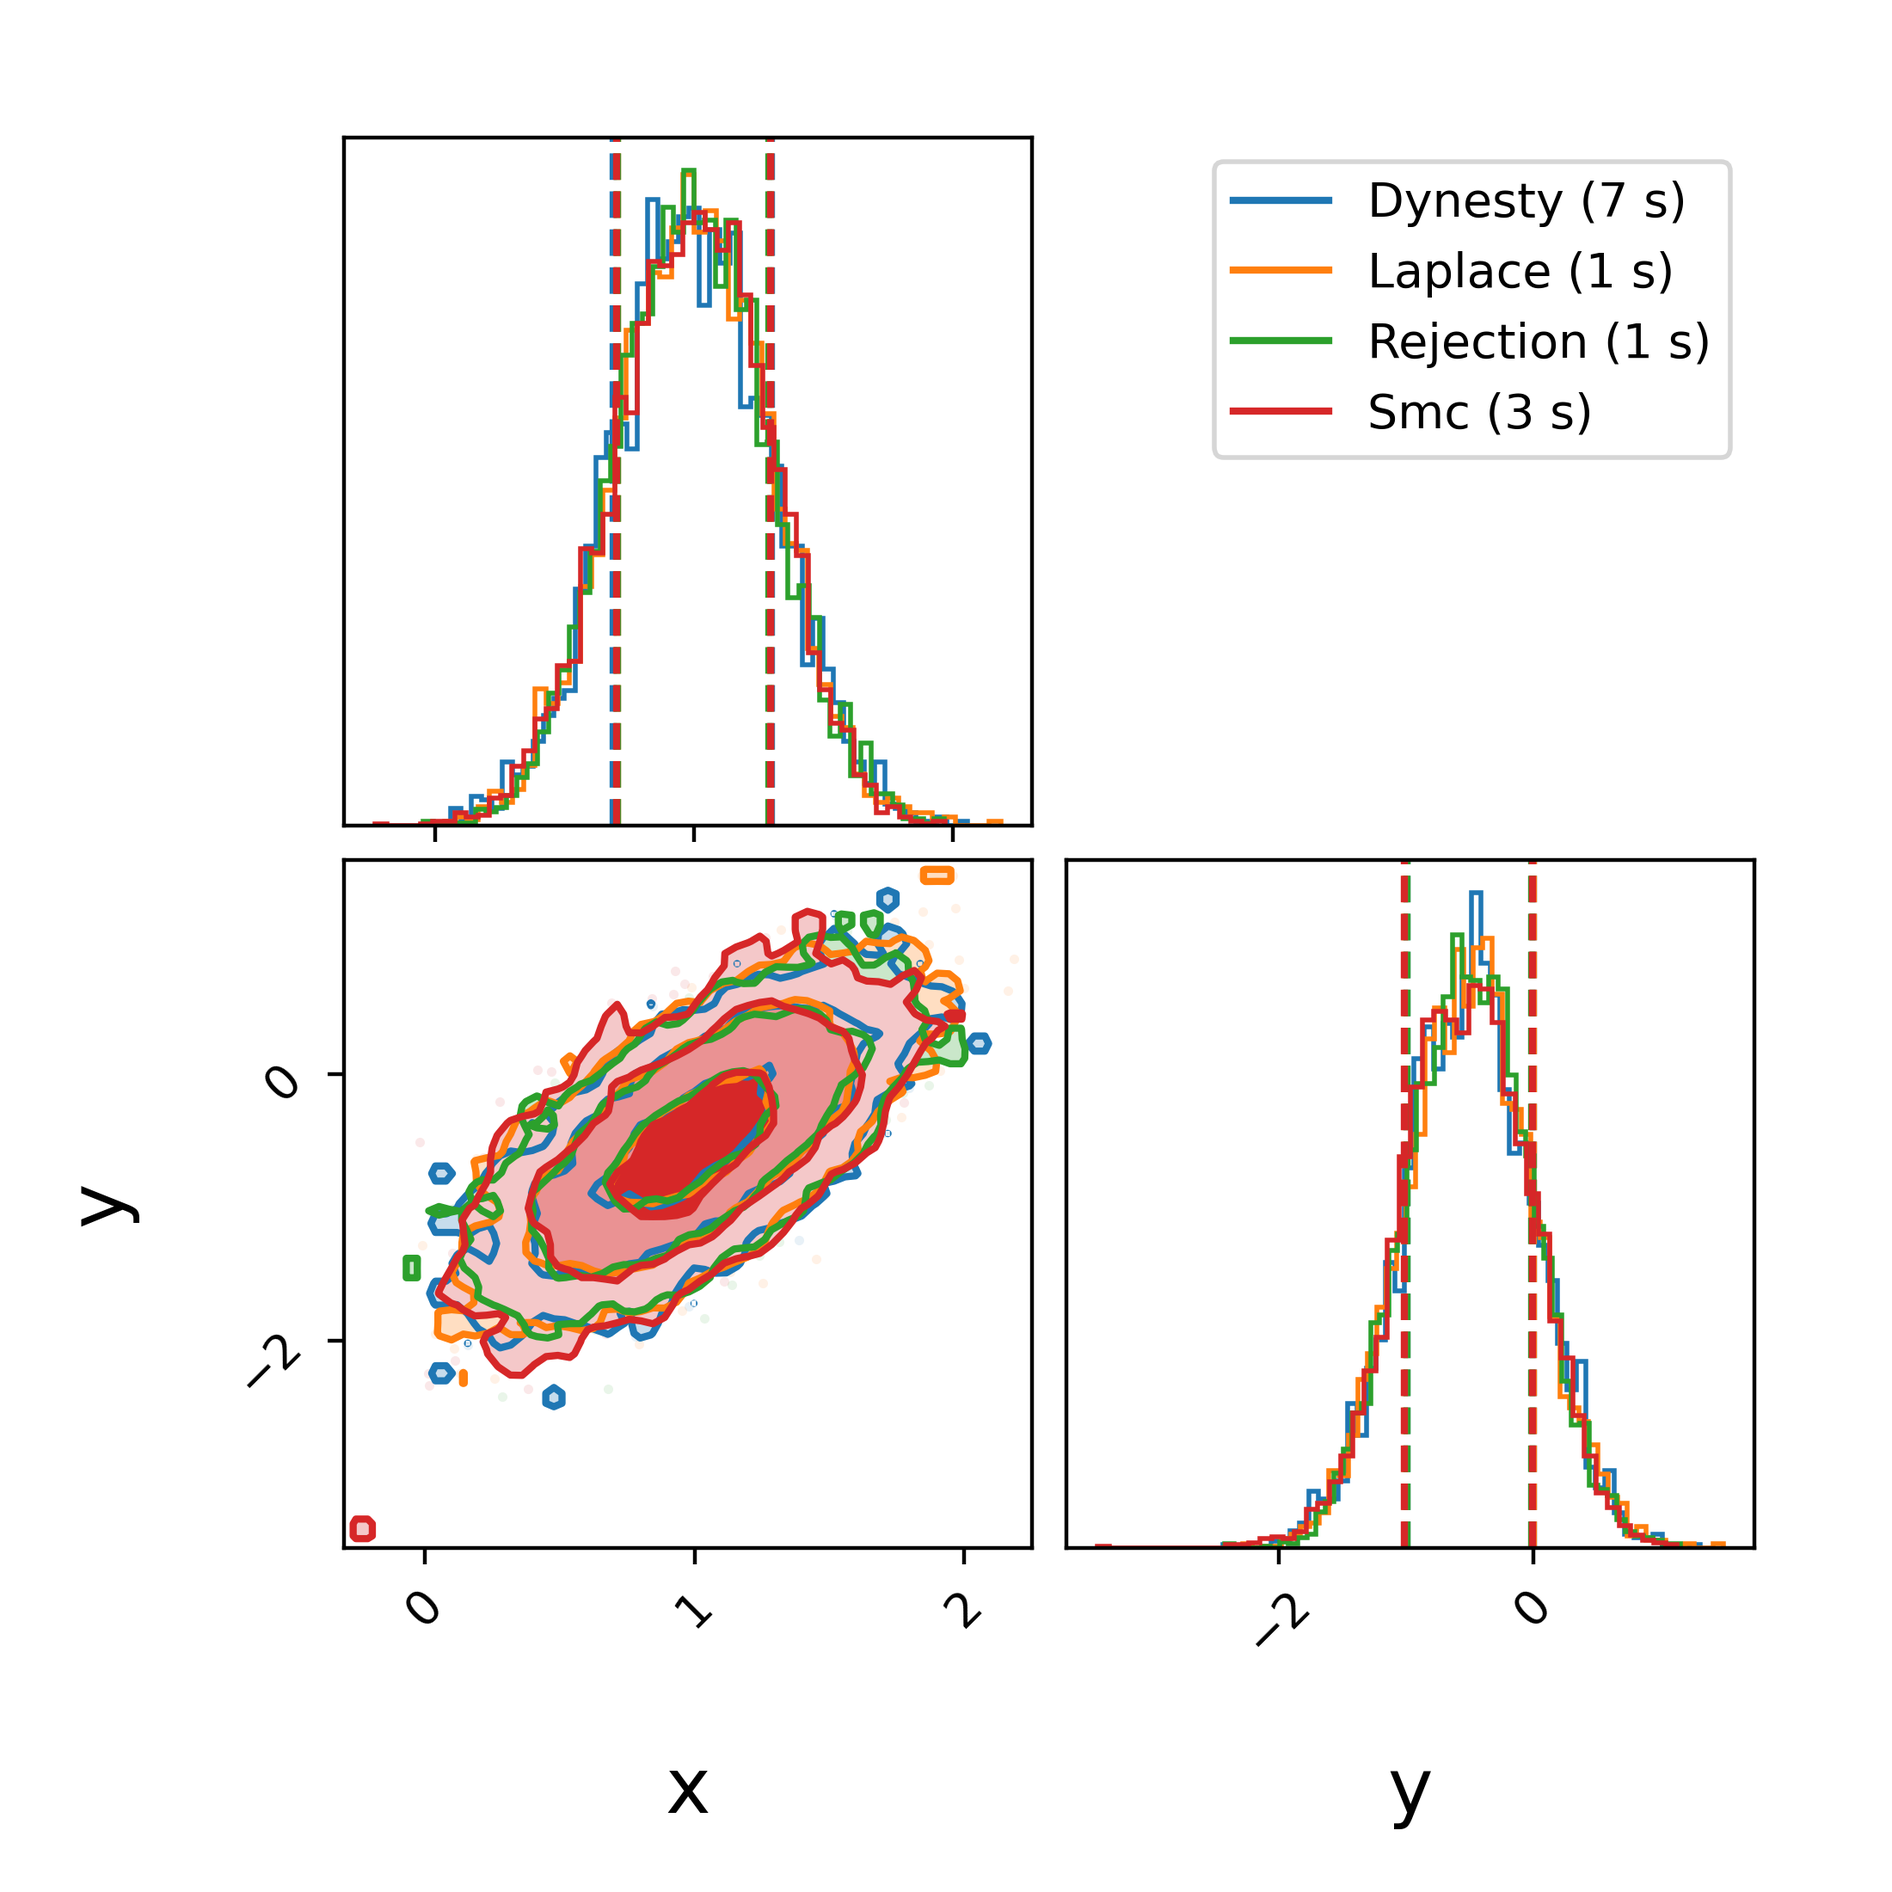
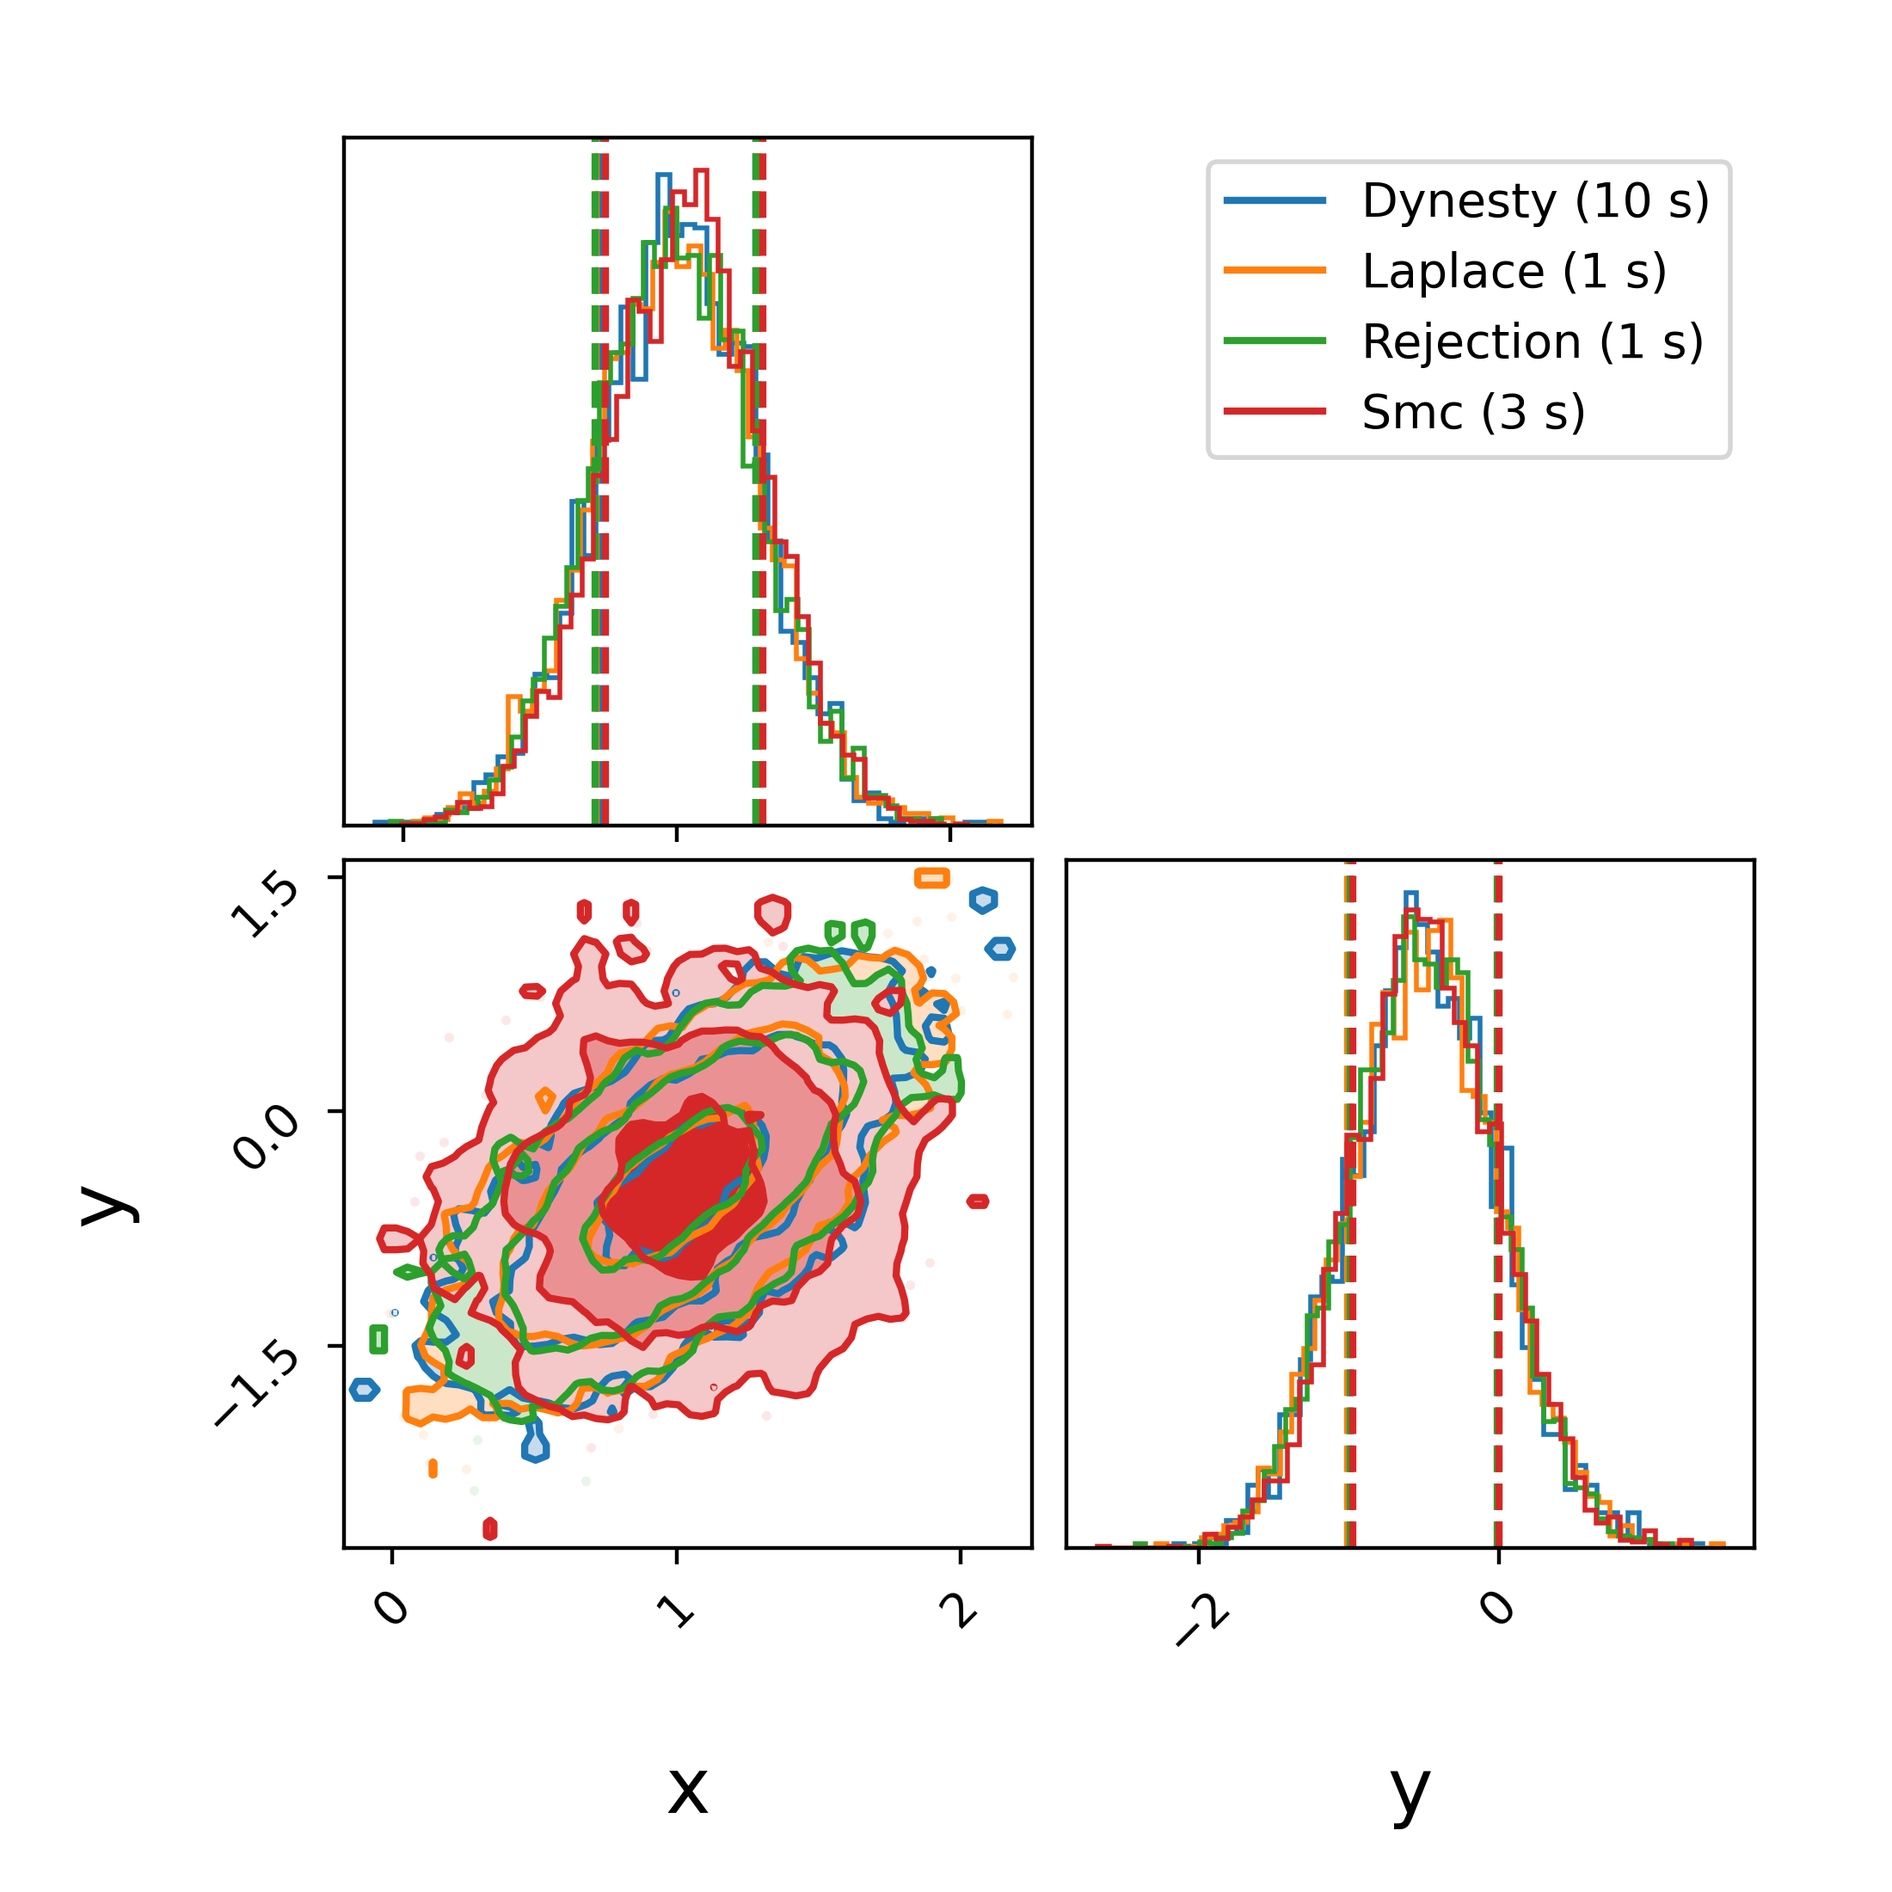
Clean up examples

diff --git a/examples/comparison.py b/examples/comparison.py
@@ -1,0 +1,97 @@
+"""Shared comparison utilities for Laplace example scripts."""
+
+import glob
+import os
+
+import bilby
+import numpy as np
+
+
+def compare(outdir, base_label, filename=None):
+    """Load all result files, print comparison table, and create corner plot.
+
+    Parameters
+    ----------
+    outdir : str
+        Output directory containing result files.
+    base_label : str
+        Base label for result files (pattern: ``{base_label}_*_result.*``).
+    filename : str, optional
+        Path for output corner plot. If None, uses ``{base_label}_comparison.png``
+        in the examples directory.
+
+    Returns
+    -------
+    results : list
+        List of loaded bilby Result objects.
+    labels : list
+        List of formatted labels for each result.
+    """
+    logger = bilby.core.utils.logger
+
+    pattern = os.path.join(outdir, f"{base_label}_*_result.*")
+    result_files = sorted([f for f in glob.glob(pattern) if not f.endswith(".old")])
+    if not result_files:
+        logger.warning(f"No result files found matching {pattern}")
+        return [], []
+
+    results = []
+    labels = []
+    for f in result_files:
+        try:
+            r = bilby.core.result.read_in_result(filename=f)
+            results.append(r)
+            label = r.label.replace(f"{base_label}_", "").capitalize()
+            secs = r.sampling_time.total_seconds()
+            if secs >= 3600:
+                label += f" ({secs / 3600:.1f} hr)"
+            elif secs >= 60:
+                label += f" ({secs / 60:.1f} min)"
+            else:
+                label += f" ({secs:.0f} s)"
+            labels.append(label)
+            logger.info(f"Loaded {f} ({label})")
+        except Exception as exc:
+            logger.warning(f"Could not load {f}: {exc}")
+
+    # Comparison table
+    W = 75
+    print("\n" + "=" * W)
+    print("Comparison")
+    print("=" * W)
+    print(f"{'Method':<20} {'log Z':>10} {'± σ':>8} {'n_like':>8} {'effic.':>8} {'time':>10}")
+    print("-" * W)
+    for r, _lab in zip(results, labels):
+        log_z = getattr(r, "log_evidence", np.nan) or np.nan
+        log_z_err = getattr(r, "log_evidence_err", np.nan) or np.nan
+        secs = r.sampling_time.total_seconds()
+        run_stats = r.meta_data.get("run_statistics", {})
+        n_like = run_stats.get("nlikelihood", np.nan)
+        eff = run_stats.get("efficiency", np.nan)
+        name = r.label.replace(f"{base_label}_", "")
+        n_like_str = f"{int(n_like):>8}" if np.isfinite(n_like) else f"{'—':>8}"
+        eff_str = f"{eff:>7.1f}%" if np.isfinite(eff) else f"{'—':>8}"
+        print(f"{name:<20} {log_z:>10.2f} {log_z_err:>8.2f} {n_like_str} {eff_str} {secs:>9.1f}s")
+    print("=" * W + "\n")
+
+    if len(results) < 2:
+        logger.warning(f"Need at least 2 results for a comparison plot, found {len(results)}")
+        return results, labels
+
+    import matplotlib.pyplot as plt
+
+    if filename is None:
+        filename = os.path.join(os.path.dirname(os.path.abspath(__file__)), f"{base_label}_comparison.png")
+
+    fig = bilby.core.result.plot_multiple(
+        results,
+        labels=labels,
+        filename=filename,
+        titles=False,
+        save=False,
+    )
+    fig.savefig(filename, dpi=400)
+    plt.close(fig)
+    logger.info(f"Comparison corner plot saved to {filename}")
+
+    return results, labels

diff --git a/examples/rosenbrock_example.py b/examples/rosenbrock_example.py
@@ -19,11 +19,9 @@ Usage
 """
 
 import argparse
-import glob
-import os
 
 import bilby
-import numpy as np
+from comparison import compare
 
 logger = bilby.core.utils.logger
 bilby.core.utils.random.seed(1234)
@@ -136,73 +134,6 @@ def run_dynesty(_common):
     )
 
 
-def compare():
-    """Load all result files in outdir, make a comparison corner plot,
-    and print a comparison table."""
-    pattern = os.path.join(outdir, f"{base_label}_*_result.*")
-    result_files = sorted([f for f in glob.glob(pattern) if not f.endswith(".old")])
-    if not result_files:
-        logger.warning(f"No result files found matching {pattern}")
-        return
-
-    results = []
-    labels = []
-    for f in result_files:
-        try:
-            r = bilby.core.result.read_in_result(filename=f)
-            results.append(r)
-            label = r.label.replace(f"{base_label}_", "").capitalize()
-            secs = r.sampling_time.total_seconds()
-            if secs >= 3600:
-                label += f" ({secs / 3600:.1f} hr)"
-            elif secs >= 60:
-                label += f" ({secs / 60:.1f} min)"
-            else:
-                label += f" ({secs:.0f} s)"
-            labels.append(label)
-            logger.info(f"Loaded {f} ({label})")
-        except Exception as exc:
-            logger.warning(f"Could not load {f}: {exc}")
-
-    # Comparison table
-    W = 75
-    print("\n" + "=" * W)
-    print("Comparison")
-    print("=" * W)
-    print(f"{'Method':<20} {'log Z':>10} {'± σ':>8} {'n_like':>8} {'effic.':>8} {'time':>10}")
-    print("-" * W)
-    for r, _lab in zip(results, labels):
-        log_z = getattr(r, "log_evidence", np.nan) or np.nan
-        log_z_err = getattr(r, "log_evidence_err", np.nan) or np.nan
-        secs = r.sampling_time.total_seconds()
-        run_stats = r.meta_data.get("run_statistics", {})
-        n_like = run_stats.get("nlikelihood", np.nan)
-        eff = run_stats.get("efficiency", np.nan)
-        name = r.label.replace(f"{base_label}_", "")
-        n_like_str = f"{int(n_like):>8}" if np.isfinite(n_like) else f"{'—':>8}"
-        eff_str = f"{eff:>7.1f}%" if np.isfinite(eff) else f"{'—':>8}"
-        print(f"{name:<20} {log_z:>10.2f} {log_z_err:>8.2f} {n_like_str} {eff_str} {secs:>9.1f}s")
-    print("=" * W + "\n")
-
-    if len(results) < 2:
-        logger.warning(f"Need at least 2 results for a comparison plot, " f"found {len(results)}")
-        return
-
-    import matplotlib.pyplot as plt
-
-    filename = os.path.join(os.path.dirname(os.path.abspath(__file__)), f"{base_label}_comparison.png")
-    fig = bilby.core.result.plot_multiple(
-        results,
-        labels=labels,
-        filename=filename,
-        titles=False,
-        save=False,
-    )
-    fig.savefig(filename, dpi=400)
-    plt.close(fig)
-    logger.info(f"Comparison corner plot saved to {filename}")
-
-
 if __name__ == "__main__":
     parser = argparse.ArgumentParser(description="Laplace vs dynesty on a 2D Rosenbrock likelihood")
     parser.add_argument(
@@ -238,4 +169,4 @@ if __name__ == "__main__":
 
         # Compare only needs to read result files
         if args.compare:
-            compare()
+            _results, _labels = compare(outdir, base_label)

diff --git a/examples/gaussian_example.py b/examples/gaussian_example.py
@@ -9,11 +9,10 @@ Usage
 """
 
 import argparse
-import glob
-import os
 
 import bilby
 import numpy as np
+from comparison import compare
 
 logger = bilby.core.utils.logger
 bilby.core.utils.random.seed(1234)
@@ -111,73 +110,6 @@ def run_dynesty(_common):
     )
 
 
-def compare():
-    """Load all result files in outdir, make a comparison corner plot,
-    and print a comparison table."""
-    pattern = os.path.join(outdir, f"{base_label}_*_result.*")
-    result_files = sorted([f for f in glob.glob(pattern) if not f.endswith(".old")])
-    if not result_files:
-        logger.warning(f"No result files found matching {pattern}")
-        return
-
-    results = []
-    labels = []
-    for f in result_files:
-        try:
-            r = bilby.core.result.read_in_result(filename=f)
-            results.append(r)
-            label = r.label.replace(f"{base_label}_", "").capitalize()
-            secs = r.sampling_time.total_seconds()
-            if secs >= 3600:
-                label += f" ({secs / 3600:.1f} hr)"
-            elif secs >= 60:
-                label += f" ({secs / 60:.1f} min)"
-            else:
-                label += f" ({secs:.0f} s)"
-            labels.append(label)
-            logger.info(f"Loaded {f} ({label})")
-        except Exception as exc:
-            logger.warning(f"Could not load {f}: {exc}")
-
-    # Comparison table
-    W = 75
-    print("\n" + "=" * W)
-    print("Comparison")
-    print("=" * W)
-    print(f"{'Method':<20} {'log Z':>10} {'± σ':>8} {'n_like':>8} {'effic.':>8} {'time':>10}")
-    print("-" * W)
-    for r, _lab in zip(results, labels):
-        log_z = getattr(r, "log_evidence", np.nan) or np.nan
-        log_z_err = getattr(r, "log_evidence_err", np.nan) or np.nan
-        secs = r.sampling_time.total_seconds()
-        run_stats = r.meta_data.get("run_statistics", {})
-        n_like = run_stats.get("nlikelihood", np.nan)
-        eff = run_stats.get("efficiency", np.nan)
-        name = r.label.replace(f"{base_label}_", "")
-        n_like_str = f"{int(n_like):>8}" if np.isfinite(n_like) else f"{'—':>8}"
-        eff_str = f"{eff:>7.1f}%" if np.isfinite(eff) else f"{'—':>8}"
-        print(f"{name:<20} {log_z:>10.2f} {log_z_err:>8.2f} {n_like_str} {eff_str} {secs:>9.1f}s")
-    print("=" * W + "\n")
-
-    if len(results) < 2:
-        logger.warning(f"Need at least 2 results for a comparison plot, " f"found {len(results)}")
-        return
-
-    import matplotlib.pyplot as plt
-
-    filename = os.path.join(os.path.dirname(os.path.abspath(__file__)), f"{base_label}_comparison.png")
-    fig = bilby.core.result.plot_multiple(
-        results,
-        labels=labels,
-        filename=filename,
-        titles=False,
-        save=False,
-    )
-    fig.savefig(filename, dpi=400)
-    plt.close(fig)
-    logger.info(f"Comparison corner plot saved to {filename}")
-
-
 if __name__ == "__main__":
     parser = argparse.ArgumentParser(description="Laplace vs dynesty on a 2D Gaussian likelihood")
     parser.add_argument(
@@ -213,4 +145,4 @@ if __name__ == "__main__":
 
         # Compare only needs to read result files
         if args.compare:
-            compare()
+            _results, _labels = compare(outdir, base_label)

diff --git a/examples/hlv_example.py b/examples/hlv_example.py
@@ -16,7 +16,6 @@ Usage
 """
 
 import argparse
-import glob
 import os
 
 import bilby
@@ -28,6 +27,7 @@ from bilby.gw.prior import (
     UniformInComponentsChirpMass,
     UniformInComponentsMassRatio,
 )
+from comparison import compare as compare_results
 
 logger = bilby.core.utils.logger
 bilby.core.utils.random.seed(1234)
@@ -232,55 +232,10 @@ def run_dynesty(_common):
 
 
 def compare():
-    """Load all result files in outdir, make a comparison corner plot,
-    and print a comparison table."""
-    pattern = os.path.join(outdir, f"{base_label}_*_result.*")
-    result_files = sorted([f for f in glob.glob(pattern) if not f.endswith(".old")])
-    if not result_files:
-        logger.warning(f"No result files found matching {pattern}")
-        return
-
-    results = []
-    labels = []
-    for f in result_files:
-        try:
-            r = bilby.core.result.read_in_result(filename=f)
-            results.append(r)
-            label = r.label.replace(f"{base_label}_", "").capitalize()
-            secs = r.sampling_time.total_seconds()
-            if secs >= 3600:
-                label += f" ({secs / 3600:.1f} hr)"
-            elif secs >= 60:
-                label += f" ({secs / 60:.1f} min)"
-            else:
-                label += f" ({secs:.0f} s)"
-            labels.append(label)
-            logger.info(f"Loaded {f} ({label})")
-        except Exception as exc:
-            logger.warning(f"Could not load {f}: {exc}")
-
-    # Comparison table
-    W = 75
-    print("\n" + "=" * W)
-    print("Comparison")
-    print("=" * W)
-    print(f"{'Method':<20} {'log Z':>10} {'± σ':>8} {'n_like':>8} {'effic.':>8} {'time':>10}")
-    print("-" * W)
-    for r, _lab in zip(results, labels):
-        log_z = getattr(r, "log_evidence", np.nan) or np.nan
-        log_z_err = getattr(r, "log_evidence_err", np.nan) or np.nan
-        secs = r.sampling_time.total_seconds()
-        run_stats = r.meta_data.get("run_statistics", {})
-        n_like = run_stats.get("nlikelihood", np.nan)
-        eff = run_stats.get("efficiency", np.nan)
-        name = r.label.replace(f"{base_label}_", "")
-        n_like_str = f"{int(n_like):>8}" if np.isfinite(n_like) else f"{'—':>8}"
-        eff_str = f"{eff:>7.1f}%" if np.isfinite(eff) else f"{'—':>8}"
-        print(f"{name:<20} {log_z:>10.2f} {log_z_err:>8.2f} {n_like_str} {eff_str} {secs:>9.1f}s")
-    print("=" * W + "\n")
-
+    """Load all result files in outdir, make comparison corner plots,
+    and print a comparison table. Custom to HLV example for intrinsic/extrinsic plots."""
+    results, labels = compare_results(outdir, base_label)
     if len(results) < 2:
-        logger.warning(f"Need at least 2 results for a comparison plot, " f"found {len(results)}")
         return
 
     import matplotlib.pyplot as plt
